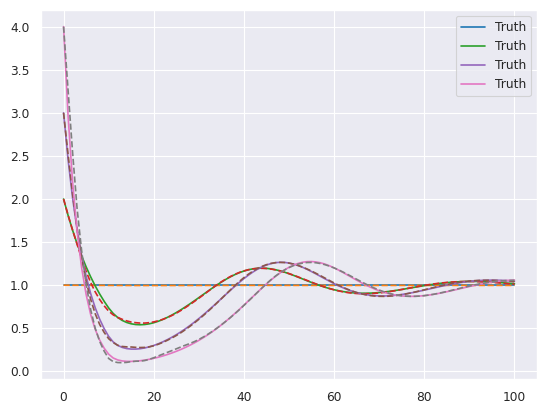
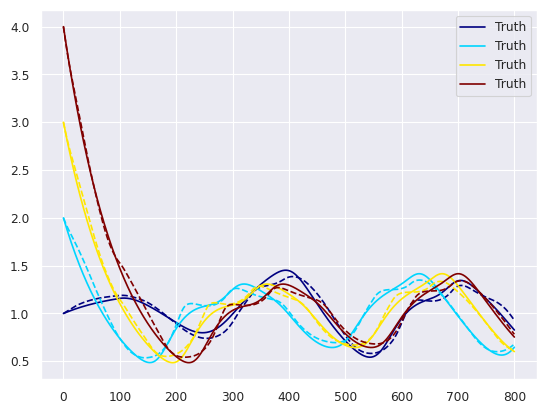
Added backprop for multiple delays
* first test multiple delays

* changed list of history to tensor

* added other comment for debug

* updated gitignore

* changed small nit

* Backward running on simple_dde

* repushing commit with backward running on simple_dde

* let me fucking pull

* Merged and backward running on simple_dde

* Backprop running with multiple delays

---------

diff --git a/torchdde/nnde_adjoint.py b/torchdde/nnde_adjoint.py
@@ -171,7 +171,7 @@ class nddeint_ACA(torch.autograd.Function):
                 val = val + ctx.dt * func(
                     current_t,
                     val,
-                    history=[
+                    history =[
                         history_func(current_t - tau)
                         if current_t - tau <= ctx.ts[0]
                         else state_interpolator(current_t - tau)
@@ -187,7 +187,6 @@ class nddeint_ACA(torch.autograd.Function):
         ctx.alltimes = alltimes
         ctx.history = state_interpolator
         ctx.allstates = torch.hstack(values)[..., None]
-        # print("tx.ys.grad_fn", ctx.allstates.grad_fn)
         return ctx.allstates
 
     @staticmethod
@@ -203,12 +202,9 @@ class nddeint_ACA(torch.autograd.Function):
         # f_params holds the NDDE parameters for which a gradient will be computed
         params = ctx.saved_tensors
         state_interpolator = ctx.history
-        # aux = []
-        # for t in time_mesh :
-        #     aux.append(state_interpolator(t)[0])
-
+     
         T = time_mesh[-1]
-        # adjoint_state = grad_output[:, -1]
+
         adjoint_state = torch.zeros_like(grad_output[:, -1])
         adjoint_ys_final = -grad_output[:, -1].reshape(
             adjoint_state.shape[0], 1, *adjoint_state.shape[1:]
@@ -225,8 +221,6 @@ class nddeint_ACA(torch.autograd.Function):
             # device=adjoint_ys_final.device,
         )
 
-        # adjoint_history = lambda t : adjoint_state if t==T else torch.zeros_like(adjoint_state)
-        out2 = None
         # The adjoint state as well as the parameters' gradient are integrated backwards in time.
         # Following the Adaptive Checkpoint Adjoint method, the time steps and corresponding states of the forward
         # integration are re-used by going backwards in the time mesh.
@@ -242,14 +236,10 @@ class nddeint_ACA(torch.autograd.Function):
 
                 # correspond to h_t
                 h_t = torch.autograd.Variable(state_interpolator(t), requires_grad=True)
-                tau = max(ctx.func.delays)
 
                 # we are in the case where t > T - tau
-                h_t_minus_tau = (
-                    state_interpolator(t - tau) if t - tau >= ctx.ts[0] else ctx.y0
-                )
-                out = ctx.func(t, h_t, history=[h_t_minus_tau])
-    
+                h_t_minus_tau = [state_interpolator(t - tau) if t - tau >= ctx.ts[0] else ctx.y0 for tau in ctx.func.delays]
+                out = ctx.func(t, h_t, history=h_t_minus_tau)
                 rhs_adjoint_inc_k1 = torch.autograd.grad(
                     out, h_t, -adjoint_state, retain_graph=True
                 )[0]
@@ -257,19 +247,27 @@ class nddeint_ACA(torch.autograd.Function):
                 rhs_adjoint += rhs_adjoint_inc_k1
 
                 # we need to add the the second term of rhs too in rhs_adjoint computation
-                if t < T - tau:
-                    adjoint_t_plus_tau = adjoint_interpolator(t + tau)
-                    h_t_plus_tau = state_interpolator(t + tau)
-                    out_other = ctx.func(t + tau, h_t_plus_tau, history=[h_t])
-
-                    rhs_adjoint_inc_k1 = torch.autograd.grad(
-                        out_other, h_t, -adjoint_t_plus_tau
-                    )[0]
-
-                    rhs_adjoint = rhs_adjoint + rhs_adjoint_inc_k1
+                for idx,tau_i in enumerate(ctx.func.delays):
+                    if t < T - tau_i:
+                        #index_de_h_t = [tau - tau_i == 0 for tau in ctx.func.delays].index(True)
+                        #print("index_de_h_t", index_de_h_t)
+                        adjoint_t_plus_tau = adjoint_interpolator(t + tau_i)
+                        h_t_plus_tau = state_interpolator(t + tau_i)
+                        history = [state_interpolator(t + tau_i - tau_j)  if t + tau_i - tau_j >= ctx.ts[0] \
+                            else ctx.y0 for tau_j in ctx.func.delays]
+                        history[idx] = h_t
+                        # out_other = ctx.func(t + tau_i, h_t_plus_tau, history=torch.hstack([h_t_plus_tau, h_t_plus_tau])) # doesn't work
+                        
+                        out_other = ctx.func(t + tau_i, h_t_plus_tau, history=history) #  work
+                        # out_other = ctx.func(t + tau_i, h_t_plus_tau, history=h_t_minus_tau) # doesnt works
+                        rhs_adjoint_inc_k1 = torch.autograd.grad(
+                            out_other, h_t, -adjoint_t_plus_tau
+                        )[0]
+                    
+                        rhs_adjoint = rhs_adjoint + rhs_adjoint_inc_k1
 
                 param_derivative_inc = torch.autograd.grad(
-                    out, params, -adjoint_state, retain_graph=True
+                    out, params, -adjoint_state, retain_graph=False
                 )
 
                 if stacked_params is None:
@@ -277,30 +275,11 @@ class nddeint_ACA(torch.autograd.Function):
                 else : 
                     stacked_params = tuple([torch.concat([_1, torch.unsqueeze(_2, dim=-1)], dim=-1) for _1, _2 in zip(stacked_params, param_derivative_inc)])
                 
-                # for p in stacked_params: 
-                #     print("stacked_params", p.shape)
-                # aux.append(param_derivative_inc)
                 adjoint_state = adjoint_state - ctx.dt * rhs_adjoint
-
-                if out2 is None:
-                    out2 = tuple([+ ctx.dt* p for p in param_derivative_inc])
-                else:
-                    for _1, _2 in zip([*out2], [*param_derivative_inc]):
-                        _1 = _1 + ctx.dt* _2
         
         cum_sum = tuple([ctx.dt * torch.cumsum(p, dim=-1) for p in stacked_params])
         sum_cum_sum = tuple([torch.trapezoid(p, dim=-1) for p in cum_sum])
         
-        # print(*out2, "out2")
-        # values = np.array(aux)
-        # print('values,', values.shape)
-        # sum_cum_values = ctx.dt * torch.from_numpy(np.trapz(np.cumsum(values, axis=1), axis=0))
-        # sum_cum_values = ctx.dt * torch.from_numpy(np.sum(np.cumsum(values, axis=1), axis=0))
-        # print(sum_cum_values, *out2)
-        # print("cum_values", sum_cum_values.shape, sum_cum_values, *out2)
-        # plt.plot(values)
-        # plt.show()
-        # print(aux[-1].shape, values.shape, *out2)
         return None, None, None, *sum_cum_sum
         # return None, None, None, *out2
 

diff --git a/ndde.py b/ndde.py
@@ -24,20 +24,12 @@ def simple_dde(t, y, *, history):
 
 
 def simple_dde2(t, y, *, history):
-    return -history[0]
+    return -history[0] - history[1]
 
 def simple_dde3(t, y, *, history):
     return 0.25 * (history[0]) / (1.0 + history[0] ** 10) - 0.1 * y
     # return 1/2*y -history[0]
 
-class DDEModule(nn.Module):
-    def __init__(self,list_delays):
-        super().__init__()
-        self.delays = list_delays
-
-    def forward(self,t,y,*,history):
-
-        return  y * (1 - history[0])
 
 device = "cpu"
 history_values = torch.tensor([1.0, 2.0, 3.0, 4.0])
@@ -46,7 +38,7 @@ history_function = lambda t: history_values
 print("history_values", history_values.shape)
 
 ts = torch.linspace(0, 10, 101)
-list_delays = [1.0]
+list_delays = [0.5, 1.0]
 solver = RK4()
 dde_solver = DDESolver(solver, list_delays)
 ys, _ = dde_solver.integrate(simple_dde, ts, history_function)
@@ -58,11 +50,6 @@ plt.pause(2)
 plt.close() 
 
 model = NDDE(history_values.shape[-1], list_delays)
-try : 
-    model.init_weight(1/2)
-except:
-    pass
-
 model = model.to(device)
 lossfunc = nn.MSELoss()
 opt = torch.optim.Adam(model.parameters(), lr=3e-3, weight_decay=0)
@@ -70,7 +57,7 @@ losses = []
 lens = []
 
 mask = np.logspace(1,1e-1,ts.shape[0])/10
-mask = torch.tensor(mask.reshape(1,mask.shape[0],1),device=device)
+mask = torch.tensor(mask.reshape(1, mask.shape[0],1),device=device)
 
 max_epoch = 5000
 for i in range(max_epoch):

diff --git a/model.py b/model.py
@@ -16,6 +16,7 @@ class NDDE(nn.Module):
         )
 
     def forward(self, t, z, *, history):
+        
         inp = torch.cat([z, *history], dim=-1)
         return self.mlp(inp)
 
